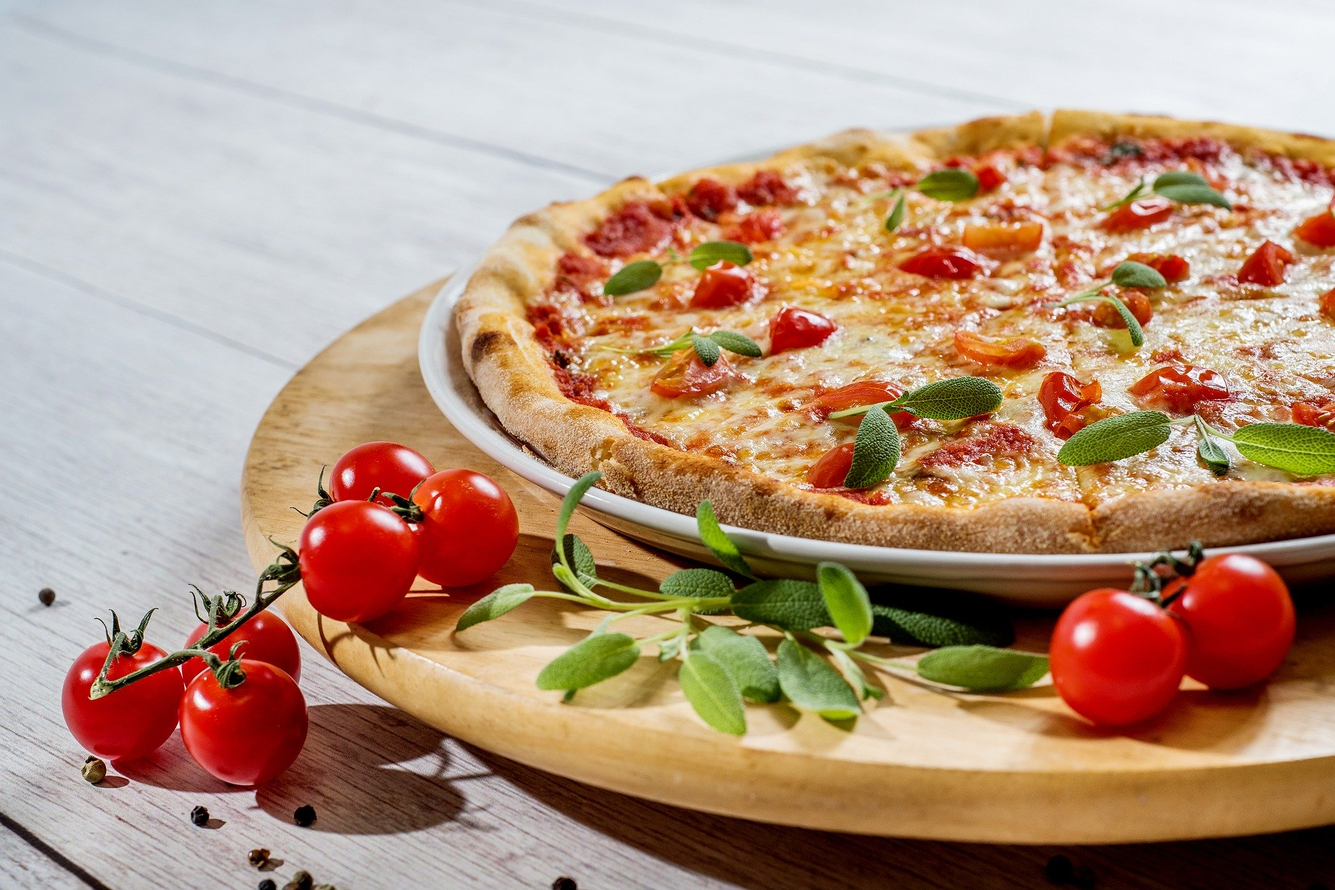
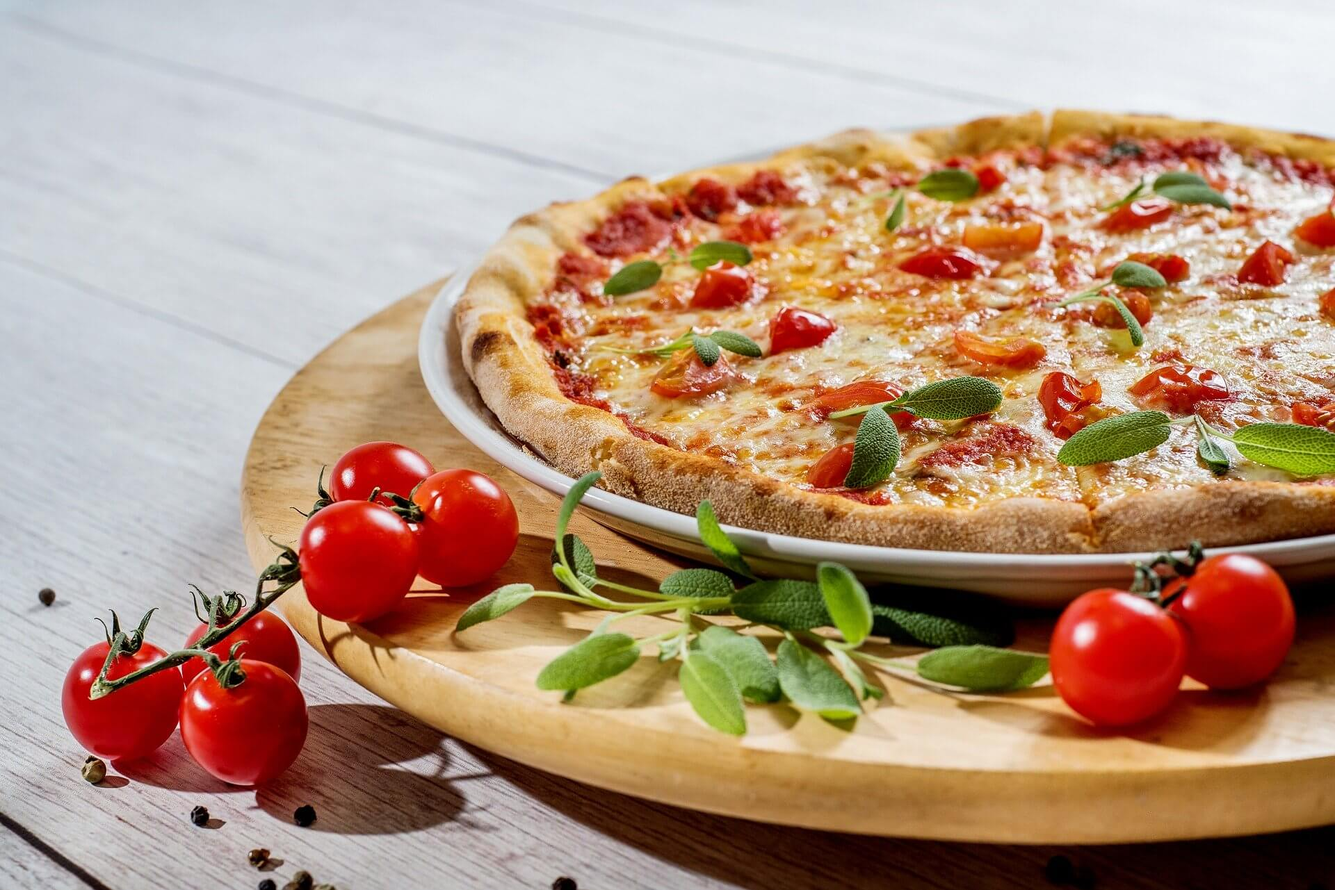
compress background images

diff --git a/src/components/Header/Header.scss b/src/components/Header/Header.scss
@@ -1,5 +1,5 @@
 header {
     height: 50vh;
-    background: url("./small-bg.png") no-repeat center 65%/cover;
+    background: url("./small-bg.jpg") no-repeat center 65%/cover;
     position: relative;
 }
